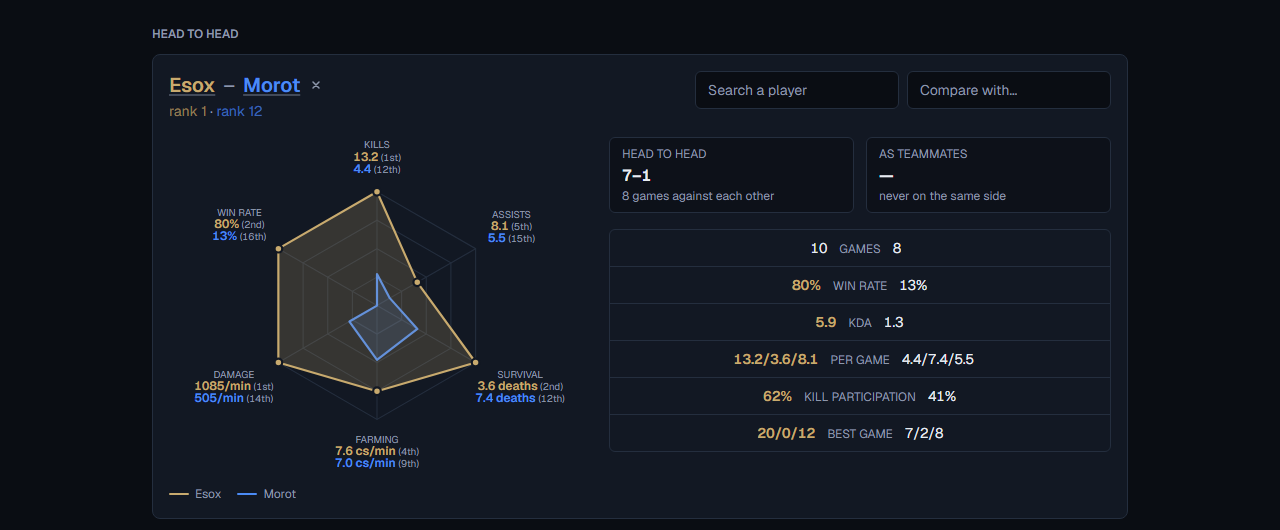
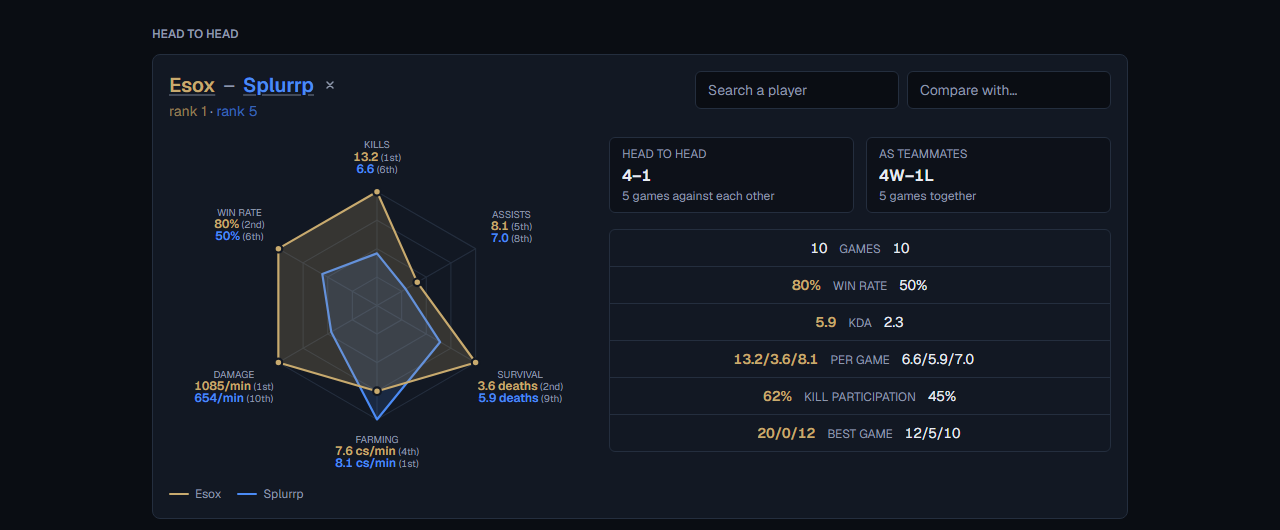
Compare against someone worth comparing against
Splurrp rather than Morot in the README's screenshot: both have ten
games, both records are filled in — four to one against each other,
four and one as teammates — and Splurrp takes farming, so the picture
shows the comparison marking a winner on either side rather than one
player sweeping every row.

Also says the site is built for a phone, since that is where it is
used and nothing in the README said so.

diff --git a/README.md b/README.md
@@ -43,7 +43,7 @@ whoever leads each row picked out. Where the two are not measured the same way
 — a support's vision against a laner's CS — that axis is dropped rather than
 compared, leaving a five-sided chart.
 
-![Two players compared, with both shapes on one chart](docs/head-to-head.png)
+![Esox and Splurrp compared, with both shapes on one chart](docs/head-to-head.png)
 
 ## What it does
 
@@ -148,6 +148,11 @@ a repeat visitor, not to know who they are.
 
 - **Next.js 16** (App Router) + **React 19** + **TypeScript** in strict mode
 - **Tailwind CSS v4**, dark by default, light theme opt-in through CSS tokens
+- **Built for a phone first**, because that is where it gets used — half the
+  group picks their roles on the sofa. The nav folds into a burger, line-ups
+  stack rather than scrolling sideways, the role badges drop below the names,
+  and the one genuinely wide thing — the ladder — scrolls inside its own box
+  so the page itself never moves sideways
 - **Neon Postgres** via `@neondatabase/serverless`
 - **Drizzle ORM** with tracked SQL migrations (`drizzle-kit generate`, never `push`)
 - **Vitest** — 100 tests over the balancer, ingest rules, role assignment, auth, hashing and the companion's parser
